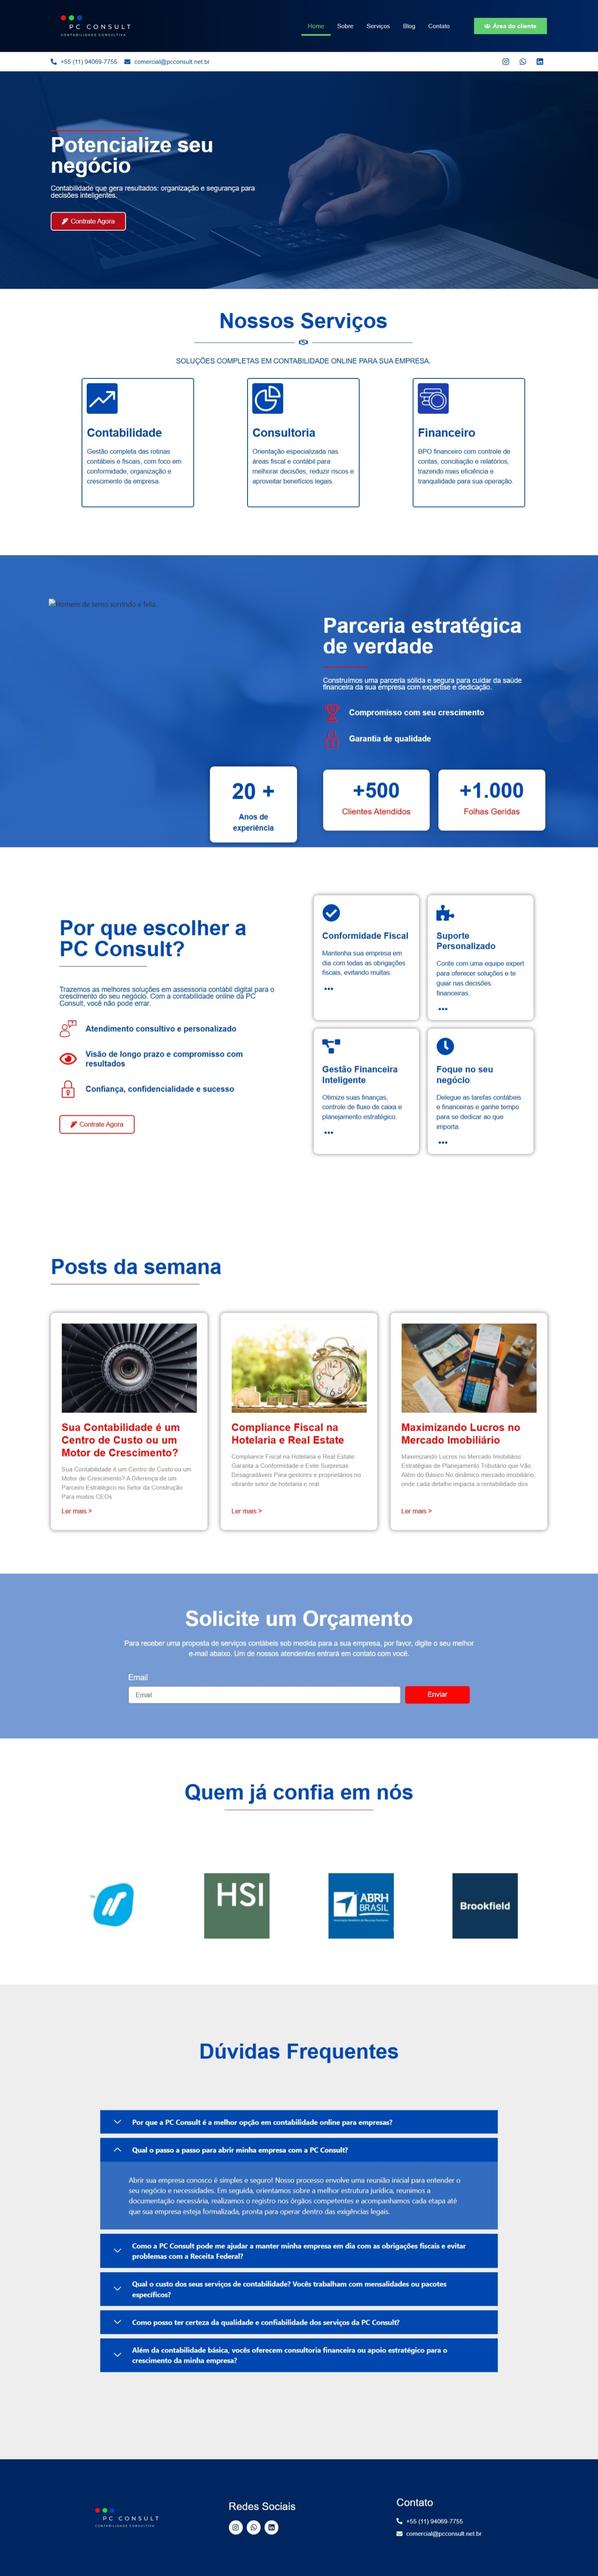
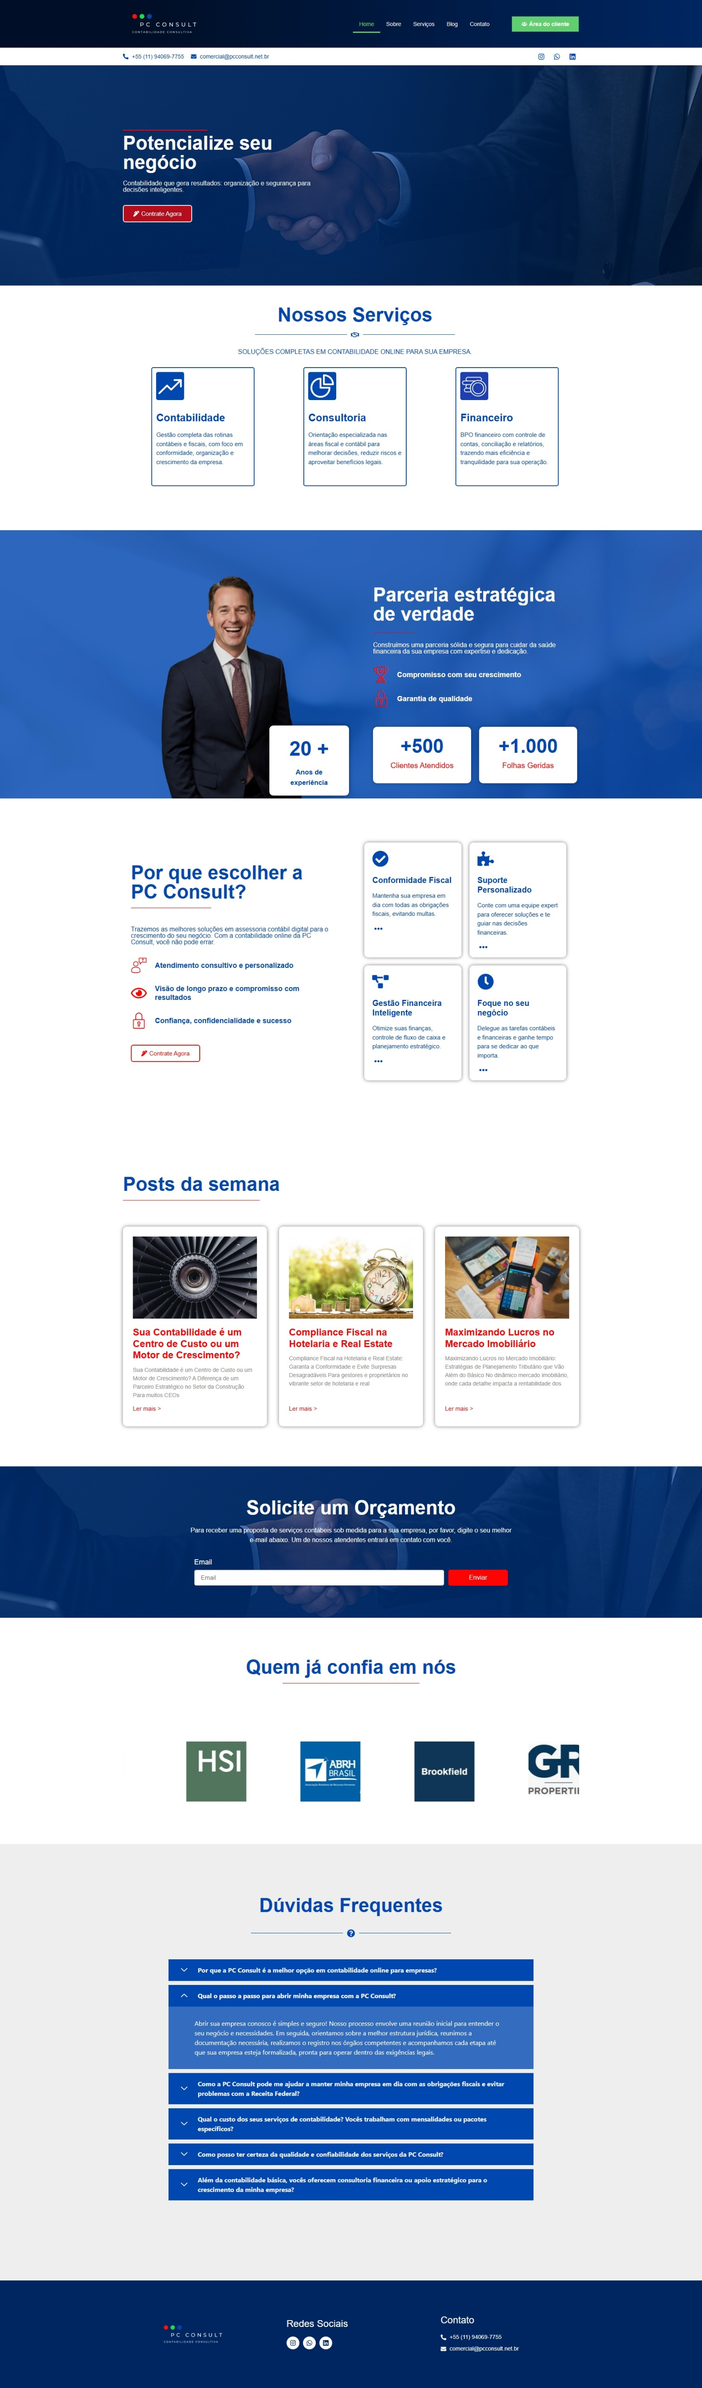
Feat: Atualiza os trabalhos na secao projetos

diff --git a/index.html b/index.html
@@ -103,31 +103,38 @@
                 </div>
                 <div class="portfolio-grid">
                     <div class="portfolio-item item-type-site" data-category="sites">
-                        <img src="img/portfolio/pcconsult.jpeg" alt="Descrição do Projeto 1">
+                        <img src="img/portfolio/pcconsult.jpeg" alt="Um site de contabilidade feito de forma totalmente pensada e adaptada para o negócio">
                         <div class="portfolio-info">
-                            <h3>Nome do Cliente/Projeto 1</h3>
-                            <p>Criação de Site Institucional</p>
+                            <h3>Pc Consult</h3>
+                            <p>Contabilidade Pura</p>
                         </div>
                     </div>
-                    <div class="portfolio-item item-type-media" data-category="sistemas">
-                        <img src="https://via.placeholder.com/400x300" alt="Descrição do Projeto 2">
+                    <div class="portfolio-item item-type-site" data-category="sites">
+                        <img src="img/portfolio/thallesrayanderson.jpeg" alt="Um site portfólio de arquitetura que mostra os diversos trabalhos do profissional Thalles Rayanderson">
                         <div class="portfolio-info">
-                            <h3>Nome do Cliente/Projeto 2</h3>
-                            <p>Sistema de Gerenciamento Interno</p>
+                            <h3>Thalles Rayanderson</h3>
+                            <p>Arquiteto</p>
                         </div>
                     </div>
-                    <div class="portfolio-item item-type-media" data-category="automacao">
-                        <img src="https://via.placeholder.com/400x300/666666/eeeeee?text=Automação+Marketing" alt="Automação Marketing Digital Cliente 3">
+                    <div class="portfolio-item item-type-site" data-category="sites">
+                        <img src="img/portfolio/roferhub.jpeg" alt="Um site personalidade que representa a desordem dos empresários na contabilidade">
                         <div class="portfolio-info">
-                            <h3>Cliente Automação 3</h3>
-                            <p>Automação de Marketing Digital</p>
+                            <h3>RoferHub</h3>
+                            <p>Site de Contabilidade</p>
                         </div>
                     </div>  
                     <div class="portfolio-item item-type-site" data-category="sites">
-                        <img src="https://via.placeholder.com/400x900/dddddd/777777?text=Site+Completo+2" alt="E-commerce Cliente 4">
+                        <img src="img/portfolio/thifanny.jpeg" alt="Um site moderno criado para apresentar os desejos de uma cliente para o seu aniversário">
                         <div class="portfolio-info">
-                            <h3>Cliente Site 4</h3>
-                            <p>Loja Virtual E-commerce</p>
+                            <h3>Um mimo</h3>
+                            <p>Página de presentes</p>
+                        </div>
+                    </div>
+                    <div class="portfolio-item item-type-site" data-category="sites">
+                        <img src="img/portfolio/android.jpeg" alt="Um site que conta a historia da marca android">
+                        <div class="portfolio-info">
+                            <h3>Android</h3>
+                            <p>Responsividade e conhecimento</p>
                         </div>
                     </div>
                 </div>
